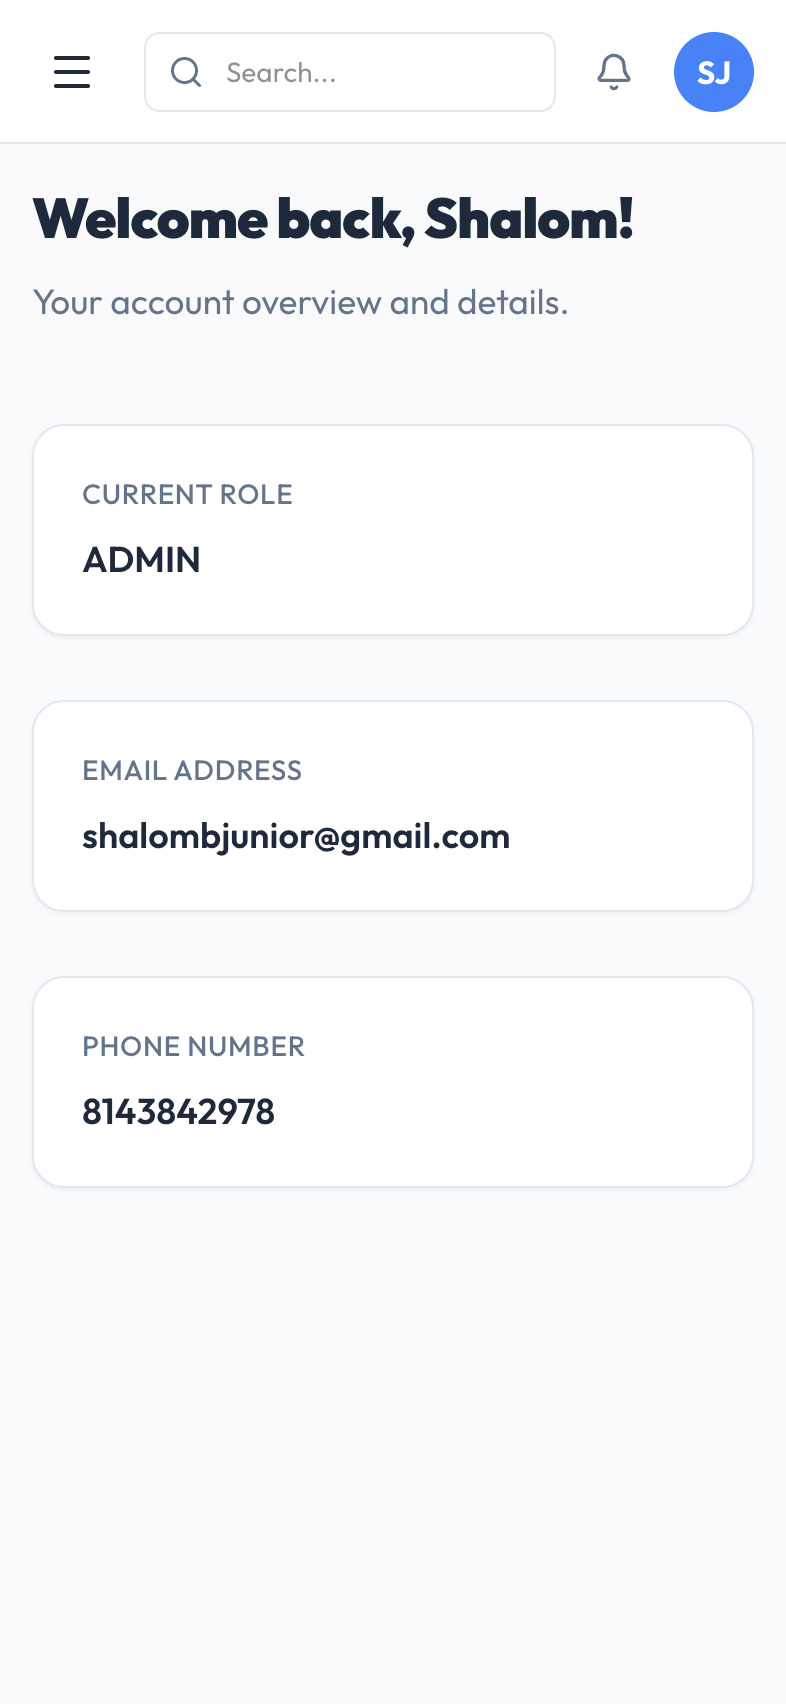
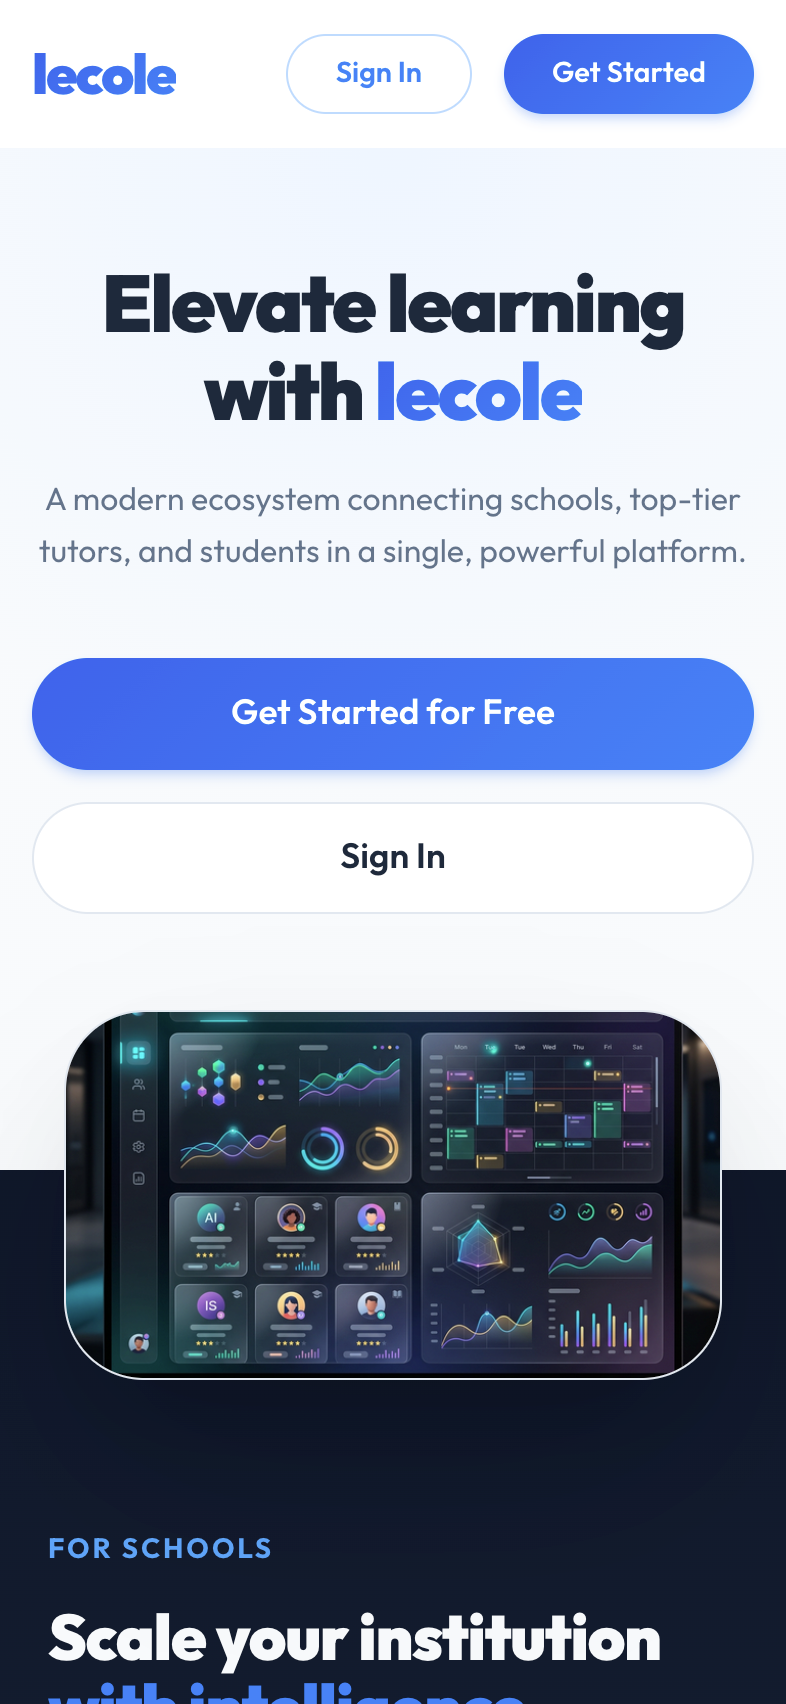
updates to pwa screenshots

diff --git a/vite.config.ts b/vite.config.ts
@@ -55,9 +55,9 @@ export default defineConfig({
             label: 'Lecole Mobile App'
           },
           {
-            src: 'screenshot-desktop.png',
+            src: 'screenshot-desktop.webp',
             sizes: '2560x1440',
-            type: 'image/png',
+            type: 'image/webp',
             form_factor: 'wide',
             label: 'Lecole Desktop App'
           }
